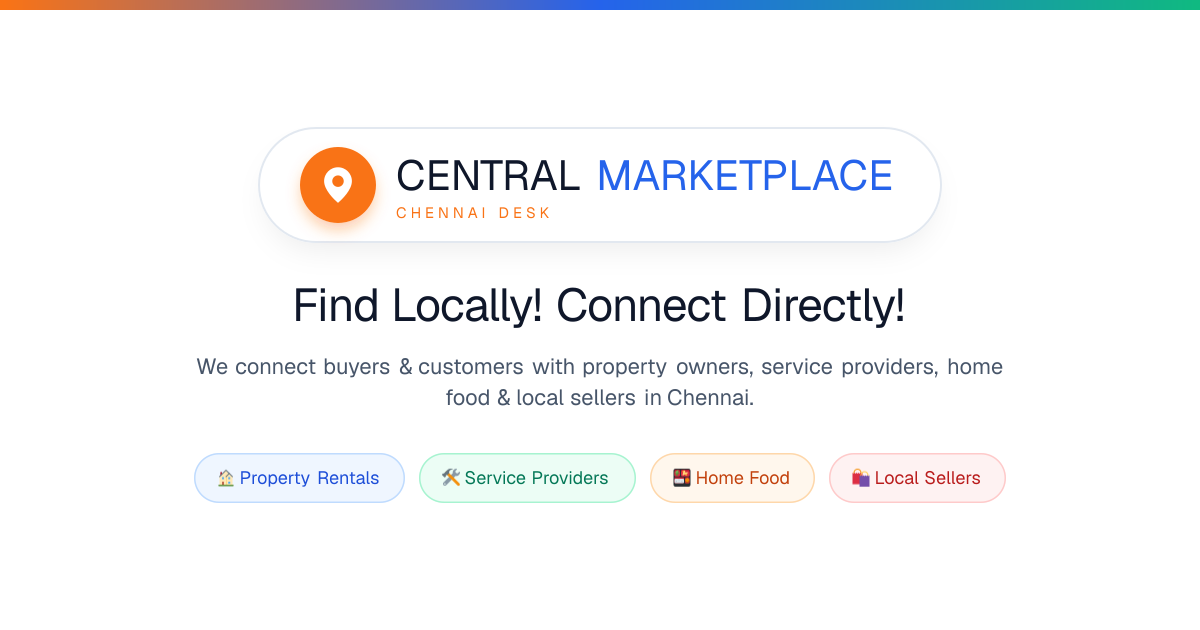
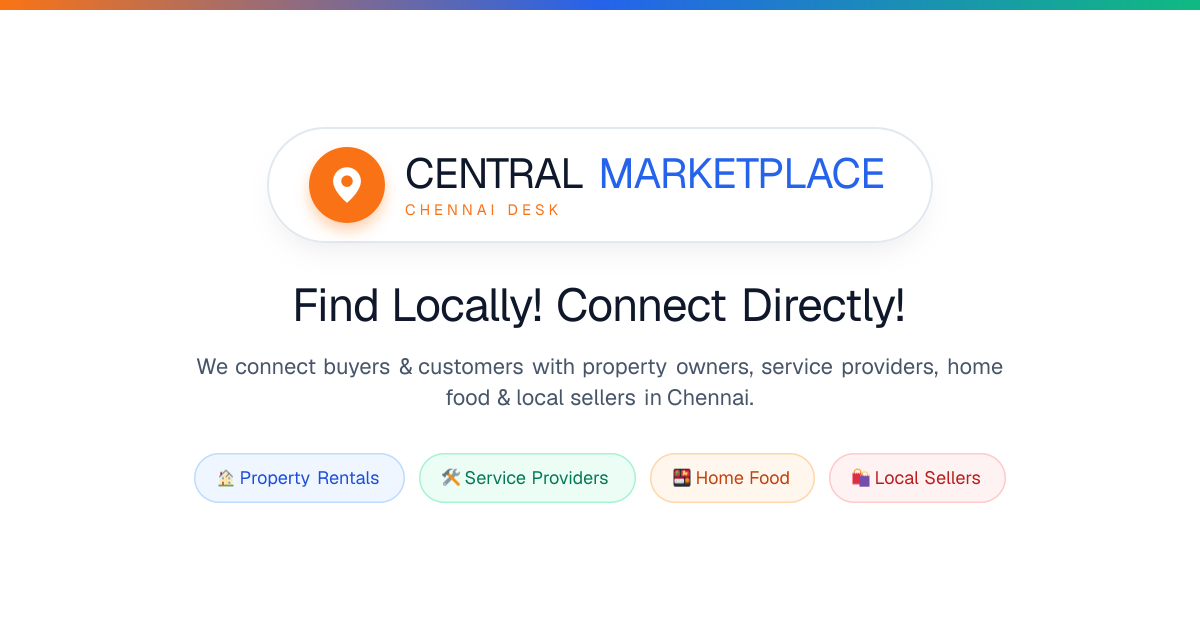
feat(og): set Variation 2 as primary OpenGraph image with left-aligned CENTRAL MARKETPLACE & CHENNAI DESK brand text

Changed region(s): [[0.2467, 0.2111, 0.74, 0.3619], [0.74, 0.2111, 0.7708, 0.2413], [0.2158, 0.2111, 0.2467, 0.2413]]

diff --git a/src/app/opengraph-image.tsx b/src/app/opengraph-image.tsx
@@ -18,65 +18,58 @@ export default async function Image() {
           flexDirection: "column",
           alignItems: "center",
           justifyContent: "center",
-          background: "linear-gradient(135deg, #0f172a 0%, #1e293b 50%, #0f172a 100%)",
+          backgroundColor: "#ffffff",
+          backgroundImage: "radial-gradient(#e2e8f0 1.5px, transparent 1.5px)",
+          backgroundSize: "28px 28px",
           position: "relative",
           fontFamily: "system-ui, sans-serif",
-          padding: "60px 40px",
-          color: "#ffffff",
+          padding: "50px 40px",
+          color: "#0f172a",
         }}
       >
-        {/* Subtle background glow effect */}
+        {/* Top border accent line */}
         <div
           style={{
             position: "absolute",
-            top: "-100px",
-            right: "-100px",
-            width: "500px",
-            height: "500px",
-            borderRadius: "50%",
-            background: "radial-gradient(circle, rgba(249,115,22,0.2) 0%, rgba(0,0,0,0) 70%)",
-            display: "flex",
-          }}
-        />
-        <div
-          style={{
-            position: "absolute",
-            bottom: "-100px",
-            left: "-100px",
-            width: "500px",
-            height: "500px",
-            borderRadius: "50%",
-            background: "radial-gradient(circle, rgba(59,130,246,0.2) 0%, rgba(0,0,0,0) 70%)",
+            top: 0,
+            left: 0,
+            right: 0,
+            height: "10px",
+            background: "linear-gradient(90deg, #f97316 0%, #2563eb 50%, #10b981 100%)",
             display: "flex",
           }}
         />
 
-        {/* Top Header Row with Brand Icon & Logo */}
+        {/* Top Brand Header Box */}
         <div
           style={{
             display: "flex",
             alignItems: "center",
-            gap: "24px",
+            gap: "20px",
             marginBottom: "32px",
+            backgroundColor: "#ffffff",
+            border: "2px solid #e2e8f0",
+            padding: "18px 40px",
+            borderRadius: "100px",
+            boxShadow: "0 15px 30px -10px rgba(0,0,0,0.08)",
           }}
         >
-          {/* Brand Icon - Orange circle with white MapPin */}
           <div
             style={{
-              width: "110px",
-              height: "110px",
+              width: "76px",
+              height: "76px",
               borderRadius: "50%",
               backgroundColor: "#f97316",
               display: "flex",
               alignItems: "center",
               justifyContent: "center",
-              boxShadow: "0 10px 25px -5px rgba(249, 115, 22, 0.4)",
+              boxShadow: "0 8px 16px -2px rgba(249, 115, 22, 0.4)",
             }}
           >
             <svg
               xmlns="http://www.w3.org/2000/svg"
-              width="68"
-              height="68"
+              width="46"
+              height="46"
               viewBox="0 0 24 24"
               fill="none"
             >
@@ -89,43 +82,28 @@ export default async function Image() {
               <circle cx="12" cy="10" r="3" fill="#f97316" />
             </svg>
           </div>
-
-          <div style={{ display: "flex", flexDirection: "column" }}>
-            <div style={{ display: "flex", alignItems: "center", gap: "14px" }}>
-              <span
-                style={{
-                  fontSize: "56px",
-                  fontWeight: 900,
-                  letterSpacing: "-1px",
-                  color: "#ffffff",
-                }}
-              >
+          <div style={{ display: "flex", flexDirection: "column", alignItems: "flex-start", textAlign: "left" }}>
+            <div style={{ display: "flex", alignItems: "center", gap: "10px", lineHeight: 1.1 }}>
+              <span style={{ fontSize: "42px", fontWeight: 900, color: "#0f172a", letterSpacing: "-1px" }}>
                 CENTRAL
               </span>
-              <span
-                style={{
-                  fontSize: "56px",
-                  fontWeight: 900,
-                  letterSpacing: "-1px",
-                  color: "#3b82f6",
-                }}
-              >
+              <span style={{ fontSize: "42px", fontWeight: 900, color: "#2563eb", letterSpacing: "-1px" }}>
                 MARKETPLACE
               </span>
             </div>
-            <div style={{ display: "flex", alignItems: "center", gap: "10px", marginTop: "4px" }}>
-              <span
-                style={{
-                  fontSize: "20px",
-                  fontWeight: 800,
-                  color: "#f97316",
-                  letterSpacing: "4px",
-                  textTransform: "uppercase",
-                }}
-              >
-                CHENNAI DESK
-              </span>
-            </div>
+            <span
+              style={{
+                fontSize: "15px",
+                fontWeight: 800,
+                color: "#f97316",
+                letterSpacing: "4px",
+                textTransform: "uppercase",
+                marginTop: "4px",
+                textAlign: "left",
+              }}
+            >
+              CHENNAI DESK
+            </span>
           </div>
         </div>
 
@@ -133,51 +111,46 @@ export default async function Image() {
         <div
           style={{
             display: "flex",
-            fontSize: "38px",
-            fontWeight: 800,
-            color: "#f8fafc",
+            fontSize: "46px",
+            fontWeight: 900,
+            color: "#0f172a",
             marginBottom: "16px",
             textAlign: "center",
+            letterSpacing: "-1px",
           }}
         >
           Find Locally! Connect Directly!
         </div>
 
-        {/* Description */}
         <div
           style={{
             display: "flex",
             fontSize: "22px",
-            color: "#94a3b8",
+            color: "#475569",
             textAlign: "center",
-            maxWidth: "850px",
+            maxWidth: "840px",
             marginBottom: "40px",
             lineHeight: 1.4,
+            fontWeight: 500,
           }}
         >
           We connect buyers & customers with property owners, service providers, home food & local sellers in Chennai.
         </div>
 
-        {/* Feature Category Badges */}
-        <div
-          style={{
-            display: "flex",
-            alignItems: "center",
-            gap: "16px",
-          }}
-        >
+        {/* Category badges */}
+        <div style={{ display: "flex", alignItems: "center", gap: "14px" }}>
           <div
             style={{
               display: "flex",
               alignItems: "center",
               gap: "8px",
-              backgroundColor: "rgba(30, 41, 59, 0.8)",
-              border: "1px solid rgba(148, 163, 184, 0.2)",
-              padding: "12px 24px",
-              borderRadius: "50px",
+              backgroundColor: "#eff6ff",
+              border: "1.5px solid #bfdbfe",
+              padding: "12px 22px",
+              borderRadius: "40px",
               fontSize: "18px",
-              fontWeight: 600,
-              color: "#e2e8f0",
+              fontWeight: 700,
+              color: "#1d4ed8",
             }}
           >
             🏠 Property Rentals
@@ -187,13 +160,13 @@ export default async function Image() {
               display: "flex",
               alignItems: "center",
               gap: "8px",
-              backgroundColor: "rgba(30, 41, 59, 0.8)",
-              border: "1px solid rgba(148, 163, 184, 0.2)",
-              padding: "12px 24px",
-              borderRadius: "50px",
+              backgroundColor: "#ecfdf5",
+              border: "1.5px solid #a7f3d0",
+              padding: "12px 22px",
+              borderRadius: "40px",
               fontSize: "18px",
-              fontWeight: 600,
-              color: "#e2e8f0",
+              fontWeight: 700,
+              color: "#047857",
             }}
           >
             🛠 Service Providers
@@ -203,13 +176,13 @@ export default async function Image() {
               display: "flex",
               alignItems: "center",
               gap: "8px",
-              backgroundColor: "rgba(30, 41, 59, 0.8)",
-              border: "1px solid rgba(148, 163, 184, 0.2)",
-              padding: "12px 24px",
-              borderRadius: "50px",
+              backgroundColor: "#fff7ed",
+              border: "1.5px solid #fed7aa",
+              padding: "12px 22px",
+              borderRadius: "40px",
               fontSize: "18px",
-              fontWeight: 600,
-              color: "#e2e8f0",
+              fontWeight: 700,
+              color: "#c2410c",
             }}
           >
             🍱 Home Food
@@ -219,13 +192,13 @@ export default async function Image() {
               display: "flex",
               alignItems: "center",
               gap: "8px",
-              backgroundColor: "rgba(30, 41, 59, 0.8)",
-              border: "1px solid rgba(148, 163, 184, 0.2)",
-              padding: "12px 24px",
-              borderRadius: "50px",
+              backgroundColor: "#fef2f2",
+              border: "1.5px solid #fecaca",
+              padding: "12px 22px",
+              borderRadius: "40px",
               fontSize: "18px",
-              fontWeight: 600,
-              color: "#e2e8f0",
+              fontWeight: 700,
+              color: "#b91c1c",
             }}
           >
             🛍 Local Sellers
@@ -233,8 +206,6 @@ export default async function Image() {
         </div>
       </div>
     ),
-    {
-      ...size,
-    }
+    { ...size }
   );
 }

diff --git a/src/app/api/og/route.tsx b/src/app/api/og/route.tsx
@@ -83,12 +83,12 @@ export async function GET(req: NextRequest) {
                 <circle cx="12" cy="10" r="3" fill="#f97316" />
               </svg>
             </div>
-            <div style={{ display: "flex", flexDirection: "column" }}>
-              <div style={{ display: "flex", alignItems: "center", gap: "10px" }}>
-                <span style={{ fontSize: "42px", fontWeight: 900, color: "#0f172a" }}>
+            <div style={{ display: "flex", flexDirection: "column", alignItems: "flex-start", textAlign: "left" }}>
+              <div style={{ display: "flex", alignItems: "center", gap: "10px", lineHeight: 1.1 }}>
+                <span style={{ fontSize: "42px", fontWeight: 900, color: "#0f172a", letterSpacing: "-1px" }}>
                   CENTRAL
                 </span>
-                <span style={{ fontSize: "42px", fontWeight: 900, color: "#2563eb" }}>
+                <span style={{ fontSize: "42px", fontWeight: 900, color: "#2563eb", letterSpacing: "-1px" }}>
                   MARKETPLACE
                 </span>
               </div>
@@ -99,6 +99,8 @@ export async function GET(req: NextRequest) {
                   color: "#f97316",
                   letterSpacing: "4px",
                   textTransform: "uppercase",
+                  marginTop: "4px",
+                  textAlign: "left",
                 }}
               >
                 CHENNAI DESK
